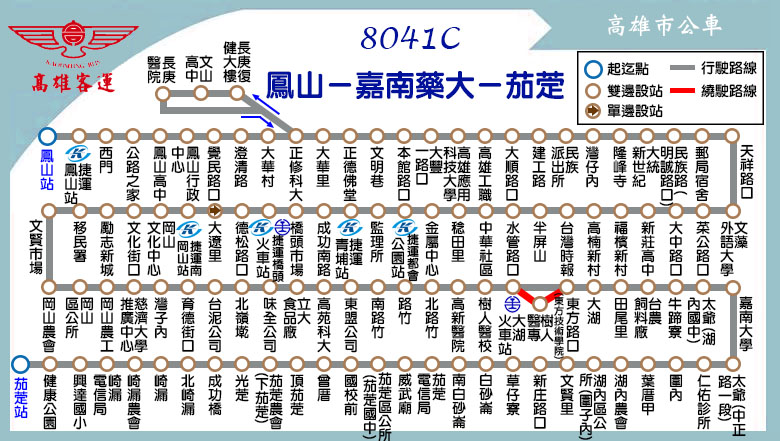
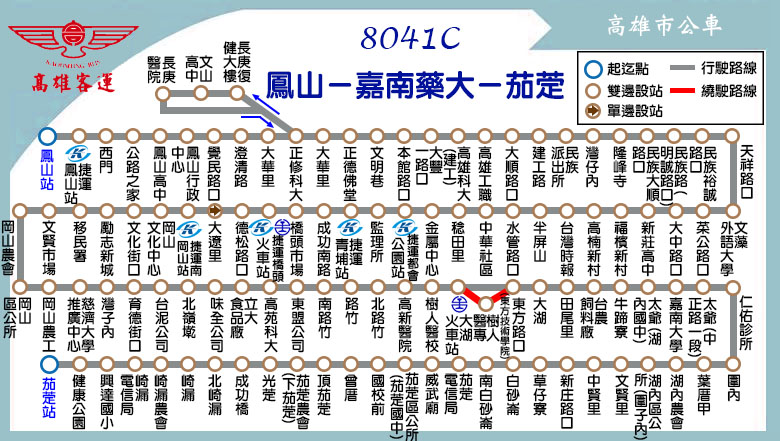
新增站位：239、8041C(增「中賢里」)

diff --git a/route/fare_and_time/highway_bus_8041C.js b/route/fare_and_time/highway_bus_8041C.js
@@ -1,10 +1,10 @@
 highway_bus_8041C_interval_name = ["鳳山","長庚<br />醫院","高雄應用<br />科技大學","民族路","榮總","楠梓陸橋","橋頭","岡山<br />區公所","北嶺墘","路竹","大湖","嘉南大學","湖內","白砂崙","茄萣站"];
 highway_bus_8041C_interval_stop = [
 ["鳳山站","捷運鳳山站","西門","公路之家","鳳山高中","鳳山行政中心","覺民路口"], // 鳳山
-["澄清路","大華村","正修科大","長庚復健大樓","文山高中","長庚醫院","正修科大","大華里"], // 長庚醫院
-["正德佛堂","文明巷","本館路口","大豐一路口","高雄應用科技大學","高雄工職","大順路口","建工路"], // 高雄應用科技大學
-["民族派出所","灣仔內","隆峰寺","大統新世紀","民族路(明誠路口)"], // 民族路
-["郵局宿舍","天祥路口","文藻外語大學","菜公路口","大中路口","新莊高中","福檳新村","高楠新村"], // 榮總
+["澄清路","大華里","正修科大","長庚復健大樓","文山高中","長庚醫院","正修科大","大華里"], // 長庚醫院
+["正德佛堂","文明巷","本館路口","大豐一路口","高雄科大(建工)","高雄工職","大順路口","建工路"], // 高雄應用科技大學
+["民族派出所","灣仔內","隆峰寺","民族大順路口","民族路(明誠路口)"], // 民族路
+["民族裕誠路口","天祥路口","文藻外語大學","菜公路口","大中路口","新莊高中","福檳新村","高楠新村"], // 榮總
 ["台灣時報","半屏山","水管路口","中華社區","稔田里","金屬中心","捷運都會公園站"], // 楠梓陸橋
 ["監理所","捷運青埔站","成功南路","橋頭市場","捷運橋頭火車站","德松路口"], // 橋頭
 ["大遼里","捷運南岡山站","岡山文化中心","文化街口","勵志新城","移民署","文賢市場","岡山農會","岡山區公所","岡山農工"], // 岡山區公所
@@ -12,7 +12,7 @@ highway_bus_8041C_interval_stop = [
 ["東盟公司","南路竹","路竹","北路竹","高新醫院","樹人醫校"], // 路竹
 ["大湖火車站","樹人醫專","東方路口(東方技術學院)","大湖","田尾里","台農飼料廠"], // 大湖
 ["牛蹄寮","太爺(湖內國中)","嘉南大學","太爺(中正路一段)","仁佑診所","圍內"], // 嘉南大學
-["葉厝甲","湖內農會","湖內區公所(圍子內)","文賢里","新庄路口","草仔寮"], // 湖內
+["葉厝甲","湖內農會","湖內區公所(圍子內)","文賢里","中賢里","新庄路口","草仔寮"], // 湖內
 ["白砂崙","南白砂崙","茄萣電信局","威武廟"], // 白砂崙
 ["茄萣區公所(茄萣國中)","國校前","曾厝","頂茄萣","茄萣農會(下茄萣)","光萣","成功橋","北崎漏","崎漏","崎漏農會",
 "崎漏電信局","興達國小","健康公園","茄萣站"] // 茄萣站

diff --git a/route/fare_and_time/city_bus_239.js b/route/fare_and_time/city_bus_239.js
@@ -8,9 +8,9 @@ city_bus_239_interval_stop = [
 ["奇美博物館"], // 奇美博物館
 ["保安里","嘉南大學"], // 奇美博物站
 ["太爺","仁佑診所","圍內","葉厝甲","湖內農會"], // 太爺
-["圍子內","文賢里","新庄路口"], // 新庄路口
+["湖內區公所(圍子內)","文賢里","中賢里","新庄路口"], // 新庄路口
 ["草仔寮","白砂崙","南白砂崙","茄萣電信局"], // 白砂崙
-["威武廟","茄萣國中","國校前","曾厝","頂茄萣","下茄萣"], // 下茄萣
+["威武廟","茄萣區公所(茄萣國中)","國校前","曾厝","頂茄萣","茄萣農會(下茄萣)"], // 下茄萣
 ["光萣","成功橋"], // 成功橋
 ["北崎漏","崎漏","崎漏農會","崎漏電信局","興達國小","健康公園","茄萣站"] // 崎漏
 ];
@@ -29,7 +29,7 @@ city_bus_239_fare = [
 [24,24,24,24,24,24,24,24,12,12,12,12],
 [24,24,24,24,24,24,24,24,24,12,12,12,12]
 ];
-city_bus_239_main_stop_name = ["臺南<br />火車站","大林","奇美<br />博物館","嘉南大學","太爺","湖內農會","威武廟","下茄萣","茄萣站"];
+city_bus_239_main_stop_name = ["臺南<br />火車站","大林","奇美<br />博物館","嘉南大學","太爺","湖內農會","威武廟","茄萣農會<br />(下茄萣)","茄萣站"];
 city_bus_239_main_stop_time_consume = [0,25,35,40,43,45,55,60,65];
 city_bus_239_important_stop = [0,2,6,8]; // 臺南火車站, 奇美博物館, 威武廟, 茄萣站
 city_bus_239_time_go = [["07:20"],["10:20"],["14:20"],["17:20"]];
